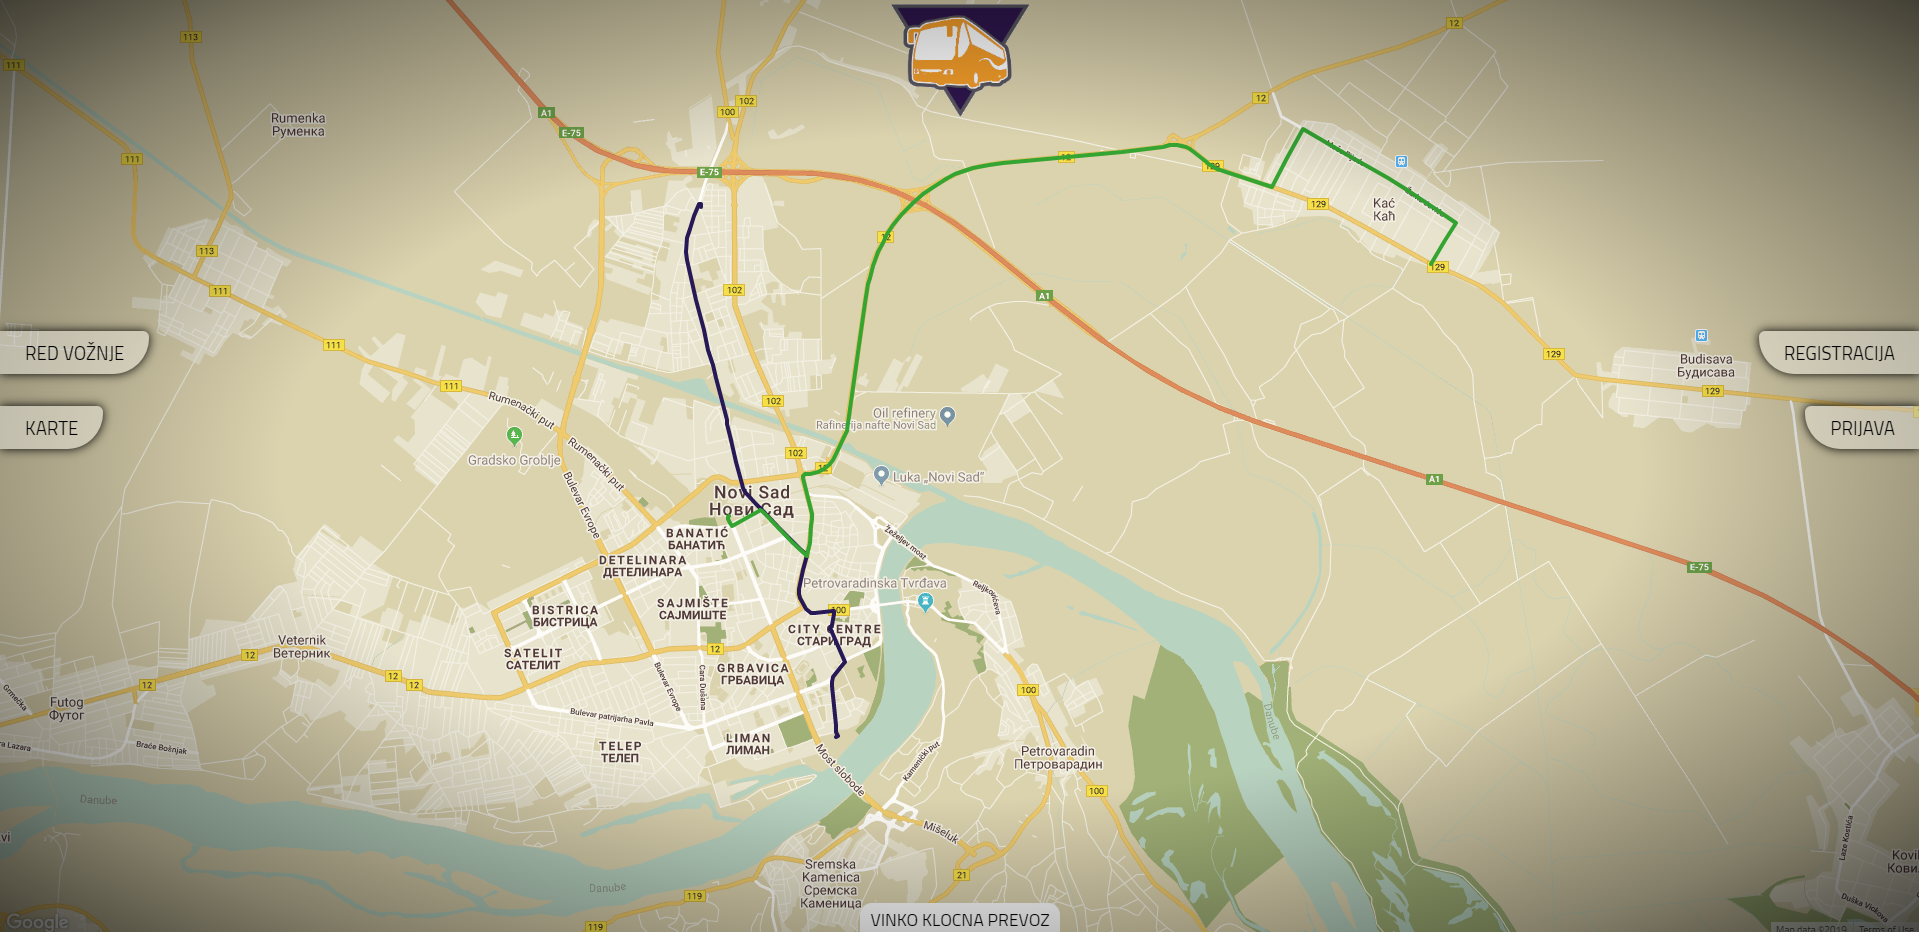
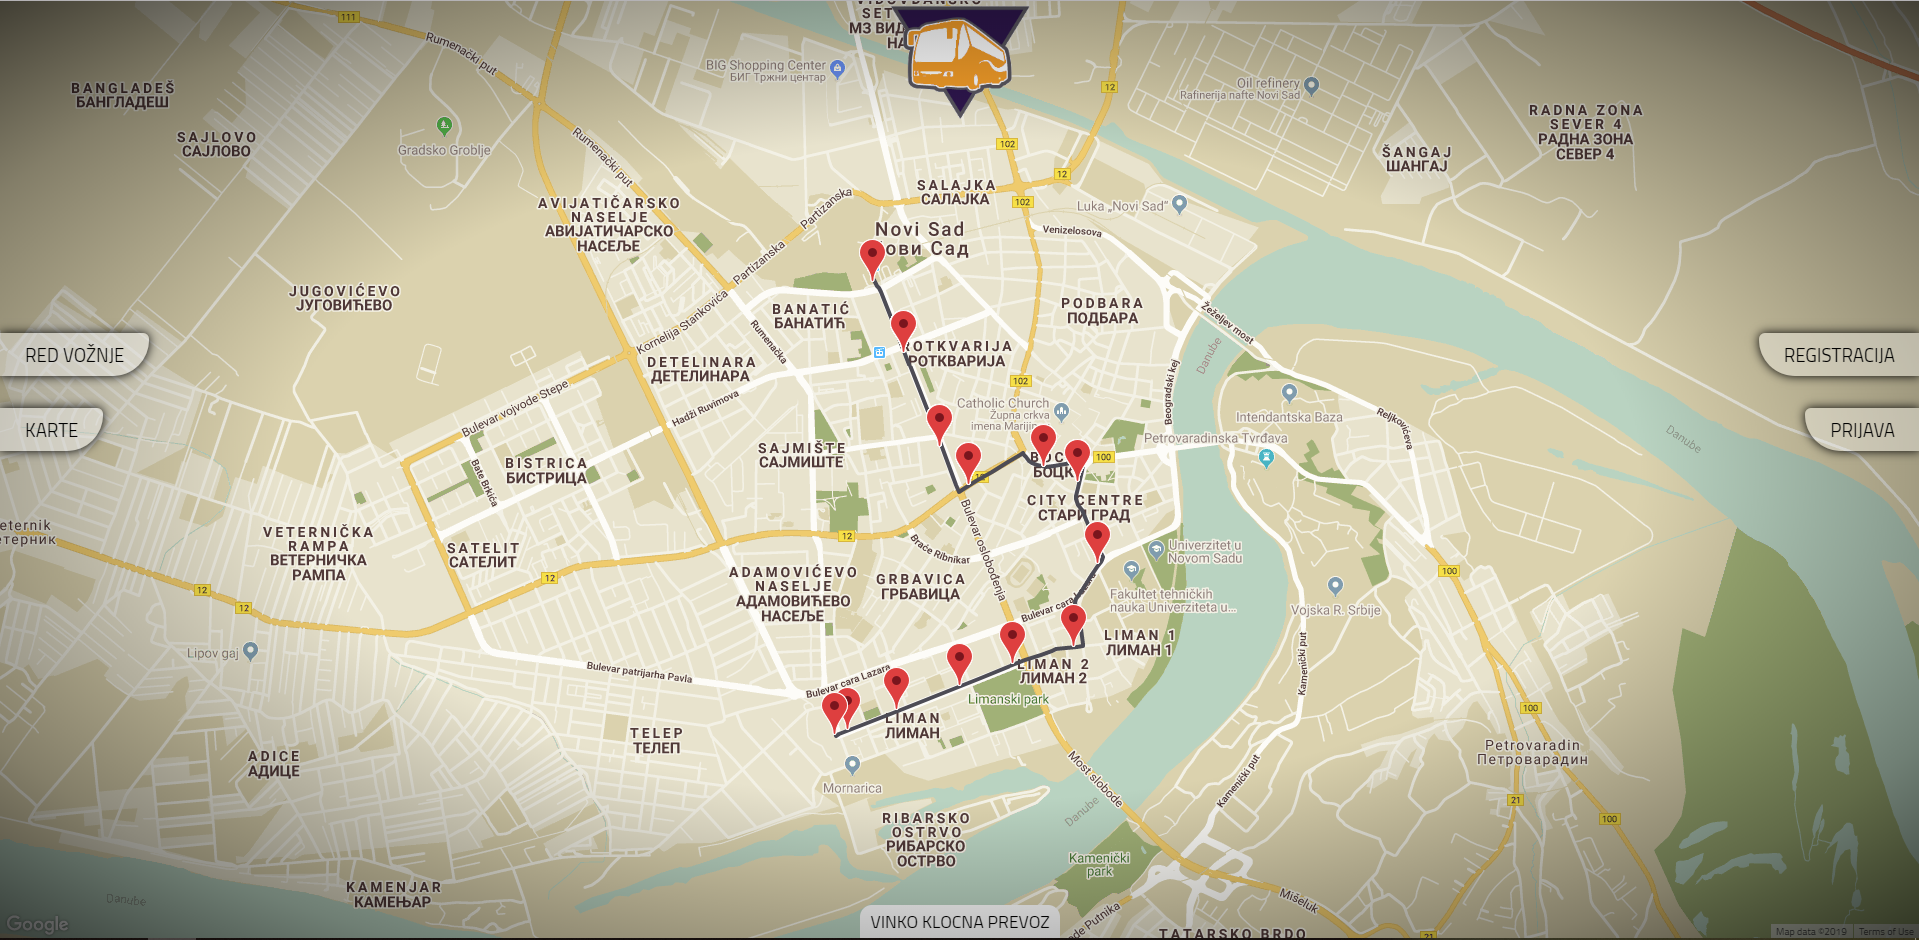
dodat prikaz stajalista kad se prikaze linija

diff --git a/angular-app/src/app/home/home.component.ts b/angular-app/src/app/home/home.component.ts
@@ -3,6 +3,7 @@ import {} from 'googlemaps';
 import { animate, state, style, transition, trigger } from '@angular/animations';
 import { Router, RoutesRecognized } from '@angular/router';
 import { Line } from 'src/models/line';
+import { BusStop } from 'src/models/bus-stop';
 
 @Component({
   selector: 'app-home',
@@ -16,6 +17,7 @@ export class HomeComponent implements OnInit{
   @ViewChild('rightPanel') rightPanelComponent: any;
   map: google.maps.Map;
   polylines: Array<any> = new Array<any>();
+  markers: Array<any> = new Array<any>();
 
   public displayedPanel: string = 'none';
 
@@ -158,6 +160,35 @@ export class HomeComponent implements OnInit{
     }
 		
 		this.polylines[linija.LineCode] = new google.maps.Polyline(polyOptions);
-		this.polylines[linija.LineCode].setMap(this.map);
+    this.polylines[linija.LineCode].setMap(this.map);
+    
+    if (linija.BusStopsOnLines.length > 0) {
+      linija.BusStopsOnLines.forEach(BusStopLineConnection => {
+        this.DrawBusStopOnMap(BusStopLineConnection.BusStop);
+      });
+    } else {
+      console.log(linija.LineCode + " nema stanice");
+    }
+
+  }
+
+  public DrawBusStopOnMap(busStop: BusStop) {
+    let marker = this.DrawMarkerOnMap(busStop.X, busStop.Y, busStop.Name);
+    
+    if (busStop != null) {
+      this.markers[busStop.Id.toString()] = marker;
+    }
+  }
+
+  public DrawMarkerOnMap(latX: number, lngY: number, title: string) {
+    let marker = new google.maps.Marker({
+        position: new google.maps.LatLng(latX, lngY),
+        map: this.map,
+        title: title
+    });
+
+    marker.setMap(this.map);
+
+    return marker;
   }
 }

diff --git a/WebApp/WebApp/Persistence/Repository/LineRepository.cs b/WebApp/WebApp/Persistence/Repository/LineRepository.cs
@@ -21,7 +21,7 @@ namespace WebApp.Persistence.Repository
 
         new public Line Get(Guid id)
         {
-            return context.Set<Line>().Include("Buses").Include("BusStopsOnLines").Include("PointLinePaths").FirstOrDefault(x => x.Id == id);
+            return context.Set<Line>().Include("Buses").Include("BusStopsOnLines").Include("BusStopsOnLines.BusStop").Include("PointLinePaths").FirstOrDefault(x => x.Id == id);
         }
     }
 }
